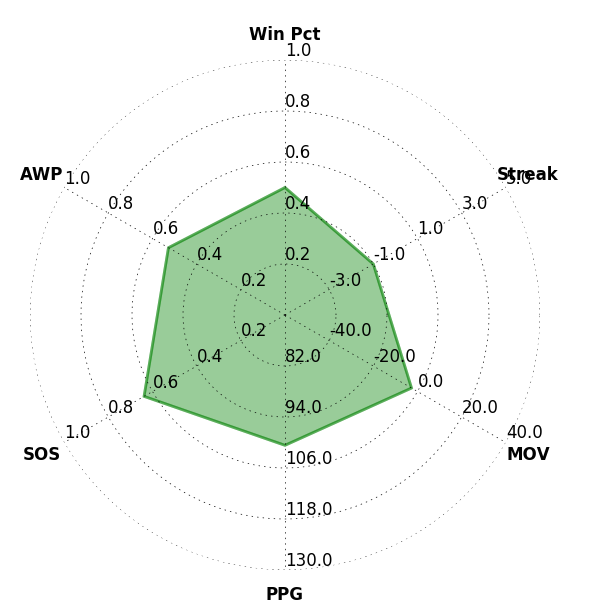
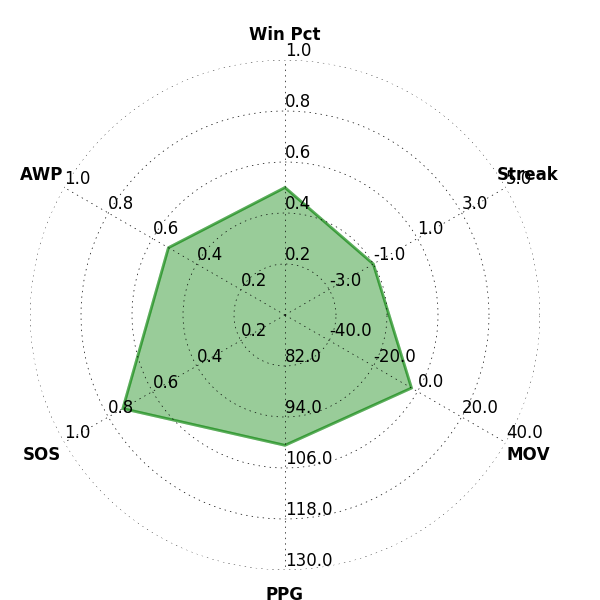
updating about page
d

Changed region(s): [[0.18, 0.42, 0.48, 0.75]]

diff --git a/ff/2017/phys/power.html b/ff/2017/phys/power.html
@@ -99,7 +99,7 @@
               </tr>
             </thead>
             <tbody>
-						<tr><td>1</td><td>Frank Zhao</td><td>3-1</td><td>97.473</td><td>1.591</td><td>1.371</td><td>1.289</td><td>0.829</td><td>0.418</td><td>1</td></tr><tr><td>2</td><td>Laura Havener  <span class="text-success"><span class="glyphicon glyphicon-chevron-up"></span> 2</span></td><td>3-1</td><td>96.064</td><td>1.512</td><td>1.209</td><td>1.172</td><td>0.605</td><td>0.402</td><td>1</td></tr><tr><td>3</td><td>Ryne Carbone  <span class="text-success"><span class="glyphicon glyphicon-chevron-up"></span> 3</span></td><td>3-1</td><td>95.844</td><td>1.502</td><td>1.245</td><td>1.284</td><td>0.848</td><td>0.399</td><td>1</td></tr><tr><td>4</td><td>Russell Smith  <span class="text-danger"><span class="glyphicon glyphicon-chevron-down"></span> 2</span></td><td>3-1</td><td>94.063</td><td>1.465</td><td>1.029</td><td>1.135</td><td>0.556</td><td>0.367</td><td>2</td></tr><tr><td>5</td><td>Bradley Axen  <span class="text-success"><span class="glyphicon glyphicon-chevron-up"></span> 2</span></td><td>2-2</td><td>93.699</td><td>1.322</td><td>0.993</td><td>1.046</td><td>0.992</td><td>0.473</td><td>2</td></tr><tr><td>6</td><td>Matt Anthony  <span class="text-danger"><span class="glyphicon glyphicon-chevron-down"></span> 1</span></td><td>2-2</td><td>91.404</td><td>1.178</td><td>0.777</td><td>0.784</td><td>0.495</td><td>0.552</td><td>3</td></tr><tr><td>7</td><td>Meghan  Frate   <span class="text-danger"><span class="glyphicon glyphicon-chevron-down"></span> 4</span></td><td>2-2</td><td>90.487</td><td>1.204</td><td>0.824</td><td>0.817</td><td>0.638</td><td>0.478</td><td>3</td></tr><tr><td>8</td><td>Felix Clark  <span class="text-success"><span class="glyphicon glyphicon-chevron-up"></span> 1</span></td><td>2-2</td><td>90.014</td><td>1.098</td><td>0.918</td><td>0.802</td><td>0.594</td><td>0.478</td><td>3</td></tr><tr><td>9</td><td>Zach Greene  <span class="text-danger"><span class="glyphicon glyphicon-chevron-down"></span> 1</span></td><td>0-4</td><td>77.198</td><td>0.897</td><td>0.250</td><td>0.355</td><td>1.000</td><td>0.970</td><td>4</td></tr><tr><td>10</td><td>Rex Brown</td><td>0-4</td><td>59.046</td><td>0.250</td><td>0.250</td><td>0.250</td><td>0.814</td><td>1.000</td><td>5</td></tr>
+						<tr><td>1</td><td>Frank Zhao</td><td>3-1</td><td>93.955</td><td>1.000</td><td>1.000</td><td>1.000</td><td>0.873</td><td>0.418</td><td>1</td></tr><tr><td>2</td><td>Laura Havener  <span class="text-success"><span class="glyphicon glyphicon-chevron-up"></span> 2</span></td><td>3-1</td><td>91.331</td><td>0.965</td><td>0.855</td><td>0.919</td><td>0.676</td><td>0.402</td><td>2</td></tr><tr><td>3</td><td>Ryne Carbone  <span class="text-success"><span class="glyphicon glyphicon-chevron-up"></span> 3</span></td><td>3-1</td><td>90.582</td><td>0.961</td><td>0.887</td><td>0.996</td><td>0.886</td><td>0.399</td><td>2</td></tr><tr><td>4</td><td>Russell Smith  <span class="text-danger"><span class="glyphicon glyphicon-chevron-down"></span> 2</span></td><td>3-1</td><td>87.600</td><td>0.944</td><td>0.695</td><td>0.893</td><td>0.638</td><td>0.367</td><td>3</td></tr><tr><td>5</td><td>Bradley Axen  <span class="text-success"><span class="glyphicon glyphicon-chevron-up"></span> 2</span></td><td>2-2</td><td>87.590</td><td>0.881</td><td>0.662</td><td>0.832</td><td>0.994</td><td>0.473</td><td>3</td></tr><tr><td>6</td><td>Matt Anthony  <span class="text-danger"><span class="glyphicon glyphicon-chevron-down"></span> 1</span></td><td>2-2</td><td>85.518</td><td>0.817</td><td>0.470</td><td>0.649</td><td>0.600</td><td>0.552</td><td>4</td></tr><tr><td>7</td><td>Meghan  Frate   <span class="text-danger"><span class="glyphicon glyphicon-chevron-down"></span> 4</span></td><td>2-2</td><td>83.676</td><td>0.828</td><td>0.512</td><td>0.672</td><td>0.734</td><td>0.478</td><td>4</td></tr><tr><td>8</td><td>Felix Clark  <span class="text-success"><span class="glyphicon glyphicon-chevron-up"></span> 1</span></td><td>2-2</td><td>83.421</td><td>0.781</td><td>0.595</td><td>0.662</td><td>0.671</td><td>0.478</td><td>4</td></tr><tr><td>9</td><td>Zach Greene  <span class="text-danger"><span class="glyphicon glyphicon-chevron-down"></span> 1</span></td><td>0-4</td><td>69.629</td><td>0.692</td><td>0.000</td><td>0.352</td><td>1.000</td><td>0.970</td><td>5</td></tr><tr><td>10</td><td>Rex Brown</td><td>0-4</td><td>57.881</td><td>0.404</td><td>0.000</td><td>0.279</td><td>0.867</td><td>1.000</td><td>5</td></tr>
           	</tbody>
 					</table>
         </div>
@@ -117,7 +117,7 @@
 					</tr>
 					<tr>
 					  <td><b>LSQ</b>  </td>
-      	    <td>Iterative Least Square minimization, comparing ranking difference to score outcome, many factors included, see description</td>
+      	    <td>Iterative Least Square minimization, comparing predictive ranking difference to score outcome</td>
 					</tr>
 					<tr>
       			<td><b>2SD</b></td>
@@ -129,11 +129,11 @@
 					</tr>
 					<tr>
       			<td><b>SOS</b></td>
-						<td> Relative strength of schedule, scaled to average schedule</td>
+						<td> Relative strength of schedule, based on LSQ rankings</td>
 					</tr>
       		<tr>
 					  <td><b>Luck</b> </td>
-						<td>Luck index, factors opponents score and aggregrate wins </td>
+						<td>Luck ranking boost, factors opponents score and aggregrate wins </td>
 					</tr>
 					<tr>
 						<td><b>Tier</b></td>

diff --git a/ff/2017/phys/about/index.html b/ff/2017/phys/about/index.html
@@ -70,22 +70,19 @@
 			</div>
 
 
-      <div class="alert alert-warning" role="alert">
- 					<strong>Warning!</strong> Under construction, please come back soon
-       		<div class="progress">
-        		<div class="progress-bar progress-bar-warning progress-bar-striped" role="progressbar" aria-valuenow="33" aria-valuemin="0" aria-valuemax="100" style="width: 33%">
-							<span></span>
-						</div>
-      	</div>
-      </div>
-
 		<div id="ranking_explanation" class="bigger col-md-12">
 
 		<div class="page-header">
 			<h1>LSQ</h1>
 		</div>
-		<p>This is where explain LSQ when I have time to write it <span class='footnote' data-toggle="tooltip" title="Linear Win Difference Ratio method for predictive power rankings <a href='http://www.phys.utk.edu/sorensen/ranking/Documentation/Sorensen_documentation_v1.pdf'>here</a>."></span>
-		. Generally speaking it uses score differential and an iterative process to derive ranking scores by minimizing a chi square metric.</p>
+		<p>The Least Squares (LSQ) ranking is a predictive metric based on the linear-win-difference-ratio method<span class='footnote' data-toggle="tooltip" title="Linear Win Difference Ratio method for predictive power rankings <a href='http://www.phys.utk.edu/sorensen/ranking/Documentation/Sorensen_documentation_v1.pdf'>here</a>."></span>
+		. Generally speaking, it uses score differential and an iterative process to derive ranking scores by minimizing a chi square metric.</p>
+
+		<p>The goal of the rankings is to create a prediction for the result, $R_{g}$, of each game, $g$. The result should only depend on
+		the scores of the two teams playing: $S_h$ (score, home team), and $S_a$ (score, away team). The score difference, $\Delta S_{ha}$,
+		is used to characterize the result. To protect against anomolously large score differences, a truncated score difference is defined:
+		$$\Delta S_{trunc} = \Delta S_{max}\text{tanh}\left(\frac{\Delta S_{ha}}{\Delta S_{max}}\right)$$
+		</p>
 
 		<div class="page-header">
 			<h1>2SD</h1>
@@ -221,7 +218,7 @@
 		in some form, but the power rankings include an explicit metric for SOS<span class='footnote' data-toggle="tooltip" title="Simple, straightforward discussion at <a href='http://www.laxpower.com/update16/ex_sos.php'>LaCrosse Power Index</a>"></span>.
 		Since a few ranking metrics are available already, strength of
 		schedule is calculated by weighing a team's opponent's LSQ ranking.
-		$$\begin{equation}S\quad=\quad \frac{1}{n_{g}}\sum_i^{n_g}\left( R_{lsq,i} \right)^{\beta_{w}} \end{equation}$$
+		$$\begin{equation}R_{sos}\quad=\quad \frac{1}{n_{g}}\sum_i^{n_g}\left( R_{lsq,i} \right)^{\beta_{w}} \end{equation}$$
 		where the exponent $\beta_w$ is chosen to give more weight to harder opponents. A value of 2.37 is chosen as it 
 		offers adequate separation between playing easier and harder opponents.
 	</p>
@@ -267,9 +264,12 @@
 		$$R_{cons} = s_{min}+s_{max}+s_{avg}$$
 		where $s_{min}, s_{max}, s_{avg}$ are a team's minimum, maximum, and average scores for the season.
 		</p>
+		<p>Each of the component rankings are normalized so they can be weighted in a straight forward manner, 
+		and easily compared. The metrics are scaled such that the maximum rank in the league corresponds to a rank of 1.000.
+		</p>
 		<p>
 		The overall power ranking is thus:
-		$$\begin{align}R_{\text{power}}\quad &=& \alpha_{lsq}R_{lsq} + \alpha_{2sd}R_{2sd} + \alpha_{colley}R_{colley} +  \alpha_{sos}S \ + \nonumber \\
+		$$\begin{align}R_{\text{power}}\quad &=& \alpha_{lsq}R_{lsq} + \alpha_{2sd}R_{2sd} + \alpha_{colley}R_{colley} +  \alpha_{sos}R_{sos} \ + \nonumber \\
 																	&&	 \alpha_{luck}R_{luck} + \alpha_{cons}R_{cons} + \alpha_{streak}W_{\gt2}
 		\end{align}$$
 		</p>

diff --git a/ff/2017/phys/Bradley_Axen/index.html b/ff/2017/phys/Bradley_Axen/index.html
@@ -155,7 +155,7 @@
 					</tr>
 					<tr>
       			<td><b>SOS</b></td>
-						<td>Strength of schedule, relative difficulty of schedule based on opponents' power ranking score, average normalized to 1</td>
+						<td>Strength of schedule, relative difficulty of schedule based on opponents' power ranking score</td>
 					</tr>
 					<tr>
       			<td><b>PPG</b></td>

diff --git a/ff/2017/phys/Felix_Clark/index.html b/ff/2017/phys/Felix_Clark/index.html
@@ -155,7 +155,7 @@
 					</tr>
 					<tr>
       			<td><b>SOS</b></td>
-						<td>Strength of schedule, relative difficulty of schedule based on opponents' power ranking score, average normalized to 1</td>
+						<td>Strength of schedule, relative difficulty of schedule based on opponents' power ranking score</td>
 					</tr>
 					<tr>
       			<td><b>PPG</b></td>

diff --git a/ff/2017/phys/Frank_Zhao/index.html b/ff/2017/phys/Frank_Zhao/index.html
@@ -155,7 +155,7 @@
 					</tr>
 					<tr>
       			<td><b>SOS</b></td>
-						<td>Strength of schedule, relative difficulty of schedule based on opponents' power ranking score, average normalized to 1</td>
+						<td>Strength of schedule, relative difficulty of schedule based on opponents' power ranking score</td>
 					</tr>
 					<tr>
       			<td><b>PPG</b></td>

diff --git a/ff/2017/phys/Laura_Havener/index.html b/ff/2017/phys/Laura_Havener/index.html
@@ -155,7 +155,7 @@
 					</tr>
 					<tr>
       			<td><b>SOS</b></td>
-						<td>Strength of schedule, relative difficulty of schedule based on opponents' power ranking score, average normalized to 1</td>
+						<td>Strength of schedule, relative difficulty of schedule based on opponents' power ranking score</td>
 					</tr>
 					<tr>
       			<td><b>PPG</b></td>

diff --git a/ff/2017/phys/Matt_Anthony/index.html b/ff/2017/phys/Matt_Anthony/index.html
@@ -155,7 +155,7 @@
 					</tr>
 					<tr>
       			<td><b>SOS</b></td>
-						<td>Strength of schedule, relative difficulty of schedule based on opponents' power ranking score, average normalized to 1</td>
+						<td>Strength of schedule, relative difficulty of schedule based on opponents' power ranking score</td>
 					</tr>
 					<tr>
       			<td><b>PPG</b></td>

diff --git a/ff/2017/phys/Meghan_Frate/index.html b/ff/2017/phys/Meghan_Frate/index.html
@@ -155,7 +155,7 @@
 					</tr>
 					<tr>
       			<td><b>SOS</b></td>
-						<td>Strength of schedule, relative difficulty of schedule based on opponents' power ranking score, average normalized to 1</td>
+						<td>Strength of schedule, relative difficulty of schedule based on opponents' power ranking score</td>
 					</tr>
 					<tr>
       			<td><b>PPG</b></td>

diff --git a/ff/2017/phys/Rex_Brown/index.html b/ff/2017/phys/Rex_Brown/index.html
@@ -155,7 +155,7 @@
 					</tr>
 					<tr>
       			<td><b>SOS</b></td>
-						<td>Strength of schedule, relative difficulty of schedule based on opponents' power ranking score, average normalized to 1</td>
+						<td>Strength of schedule, relative difficulty of schedule based on opponents' power ranking score</td>
 					</tr>
 					<tr>
       			<td><b>PPG</b></td>

diff --git a/ff/2017/phys/Russell_Smith/index.html b/ff/2017/phys/Russell_Smith/index.html
@@ -155,7 +155,7 @@
 					</tr>
 					<tr>
       			<td><b>SOS</b></td>
-						<td>Strength of schedule, relative difficulty of schedule based on opponents' power ranking score, average normalized to 1</td>
+						<td>Strength of schedule, relative difficulty of schedule based on opponents' power ranking score</td>
 					</tr>
 					<tr>
       			<td><b>PPG</b></td>

diff --git a/ff/2017/phys/Ryne_Carbone/index.html b/ff/2017/phys/Ryne_Carbone/index.html
@@ -155,7 +155,7 @@
 					</tr>
 					<tr>
       			<td><b>SOS</b></td>
-						<td>Strength of schedule, relative difficulty of schedule based on opponents' power ranking score, average normalized to 1</td>
+						<td>Strength of schedule, relative difficulty of schedule based on opponents' power ranking score</td>
 					</tr>
 					<tr>
       			<td><b>PPG</b></td>

diff --git a/ff/2017/phys/Zach_Greene/index.html b/ff/2017/phys/Zach_Greene/index.html
@@ -155,7 +155,7 @@
 					</tr>
 					<tr>
       			<td><b>SOS</b></td>
-						<td>Strength of schedule, relative difficulty of schedule based on opponents' power ranking score, average normalized to 1</td>
+						<td>Strength of schedule, relative difficulty of schedule based on opponents' power ranking score</td>
 					</tr>
 					<tr>
       			<td><b>PPG</b></td>
